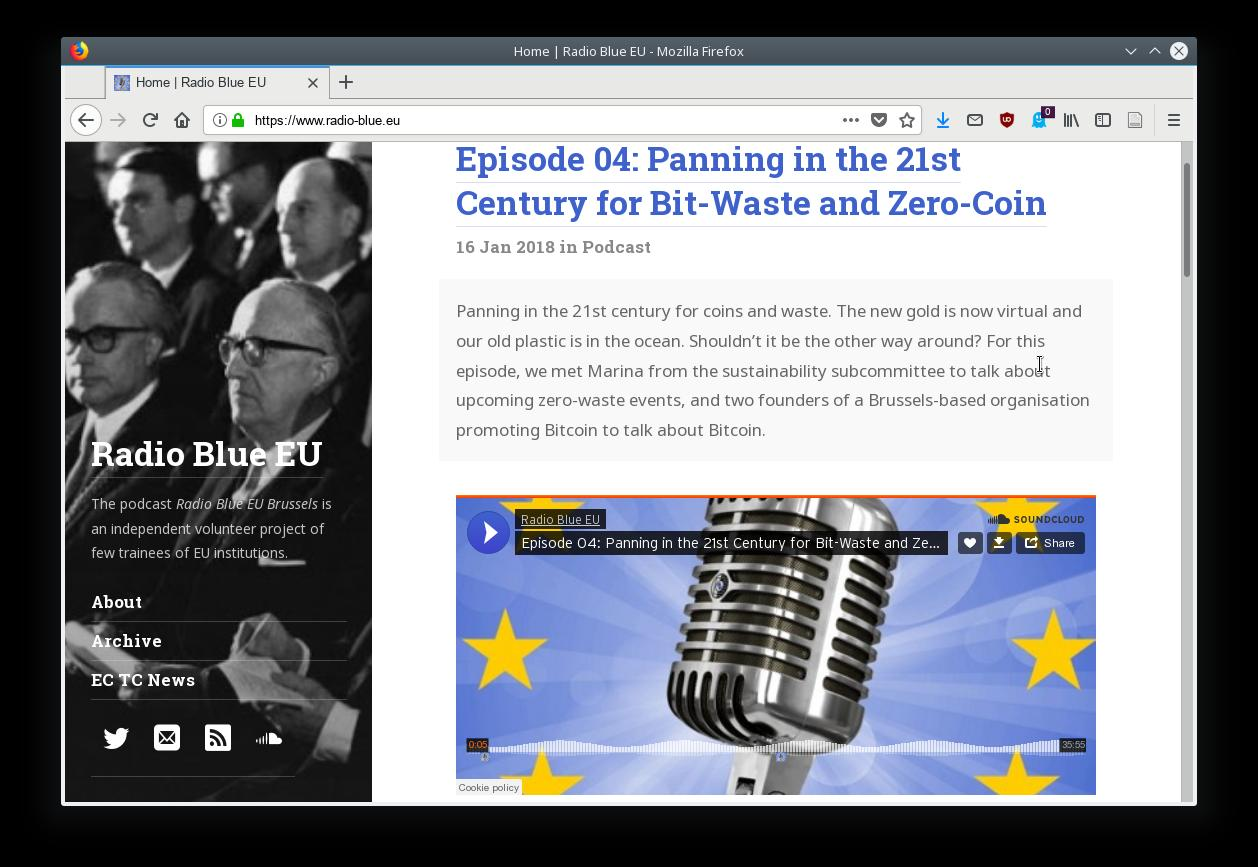
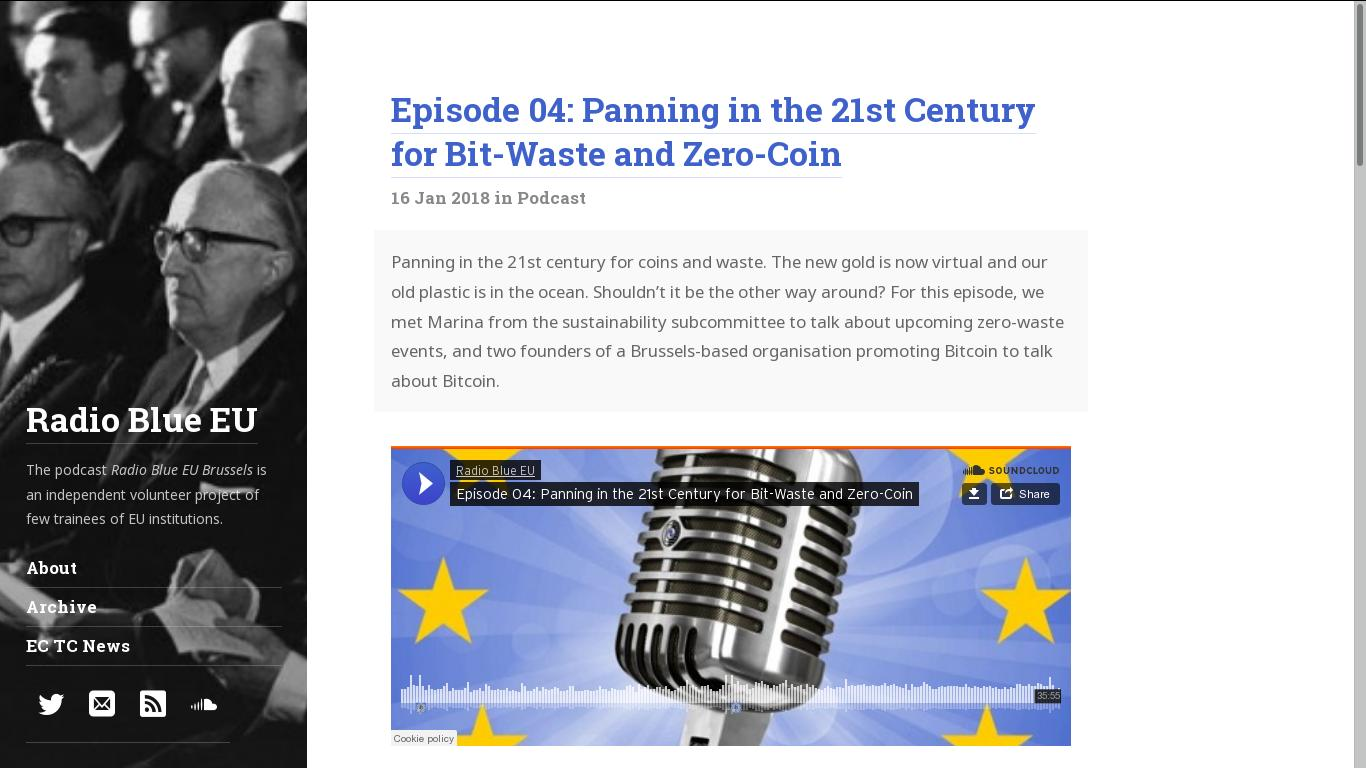
improve sidebar backgrounds for projects

diff --git a/_projects/cast-writing.md b/_projects/cast-writing.md
@@ -5,9 +5,9 @@ title:        CaST Writing
 caption:      Clear and Smart Technical Writing
 description:  >
   Clear and Smart Technical Writing is a modern workflow to draft technical documents based on different free software components such as Markdown and Atom.
-image:        https://rriemann.github.io/cast-writing/assets/img/screenshot-atom-editor.png
+image:       /assets/img/projects/cast-writing.jpg
 screenshot:
-  src:        https://rriemann.github.io/cast-writing/assets/img/screenshot-atom-editor.png
+  src:       /assets/img/projects/cast-writing.jpg
   # srcset:
   #   1920w:    /assets/img/projects/default.jpg
   #   960w:     /assets/img/projects/default@0,5x.jpg
@@ -17,7 +17,7 @@ links:
     url:      https://rriemann.github.io/cast-writing
 featured:     true
 accent_color: '#90370b'
-accent_image:  https://rriemann.github.io/cast-writing/assets/img/patrick-fore-381196-blur.jpg
+accent_image: /assets/img/sidebar-typewriter-patrick-fore-381196-blur.jpg
 ---
 
 # CaST Writing

diff --git a/_projects/radio-blue-eu.md b/_projects/radio-blue-eu.md
@@ -17,7 +17,7 @@ links:
     url:      https://www.radio-blue.eu/
 featured:     true
 accent_color: '#3f61cc'
-accent_image: https://www.radio-blue.eu/assets/images/sidebar-bg.jpg
+accent_image: /assets/img/sidebar-bg-eu.jpg
 ---
 
 ![Cat](https://placekitten.com/g/200/300){:.lead}
